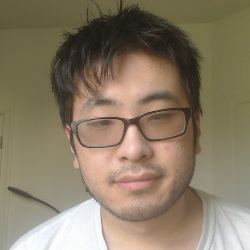
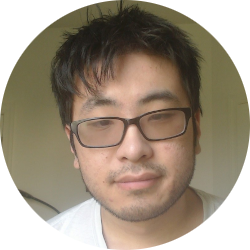
updated photos to circles

diff --git a/TeamBiography.html b/TeamBiography.html
@@ -20,7 +20,7 @@
           <img src="./images/Thomas-250.png" alt="team_member_image">
         </div>
         <h3>Thomas Harlow</h3>
-        <span class="Role">Role</span>
+        <p class="Role">Role</p>
         <p>Thomas Harlow is a senior undergraduate student at Old Dominion University majoring in Computer Science and minoring in Military Leadership.
           After college he will commission in the United States Marine Corps and plans to make a career out of it. In his free time he enjoys listening to music, working out,
           and working on his car.

diff --git a/style.css b/style.css
@@ -22,6 +22,7 @@ body{
   margin-bottom: 25px;
   text-align: center;
   color: rgb(233, 130, 45);
+  padding-bottom: 30px;
 }
 
 .team{
